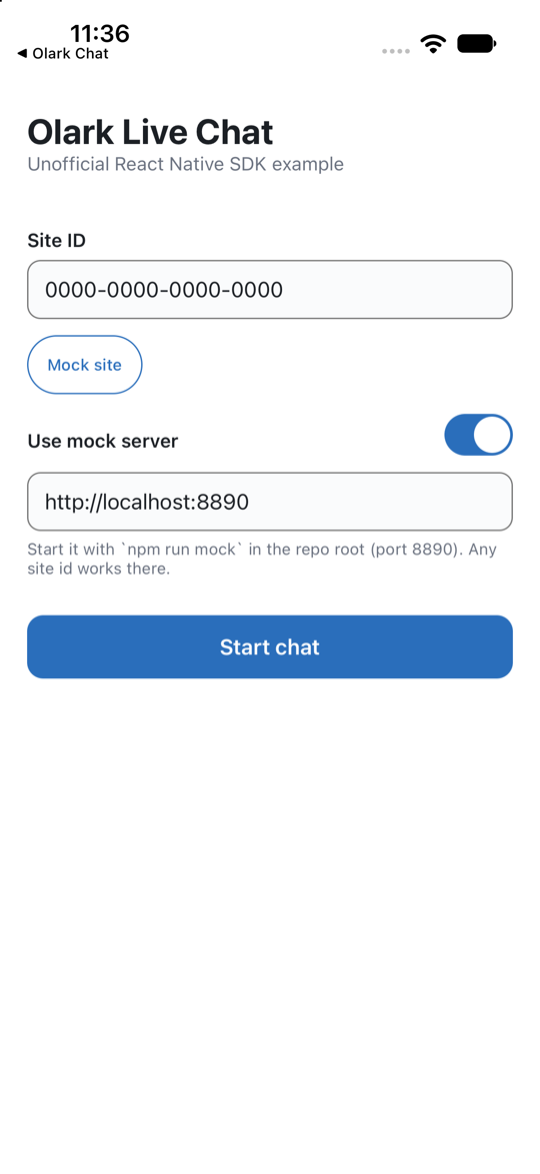
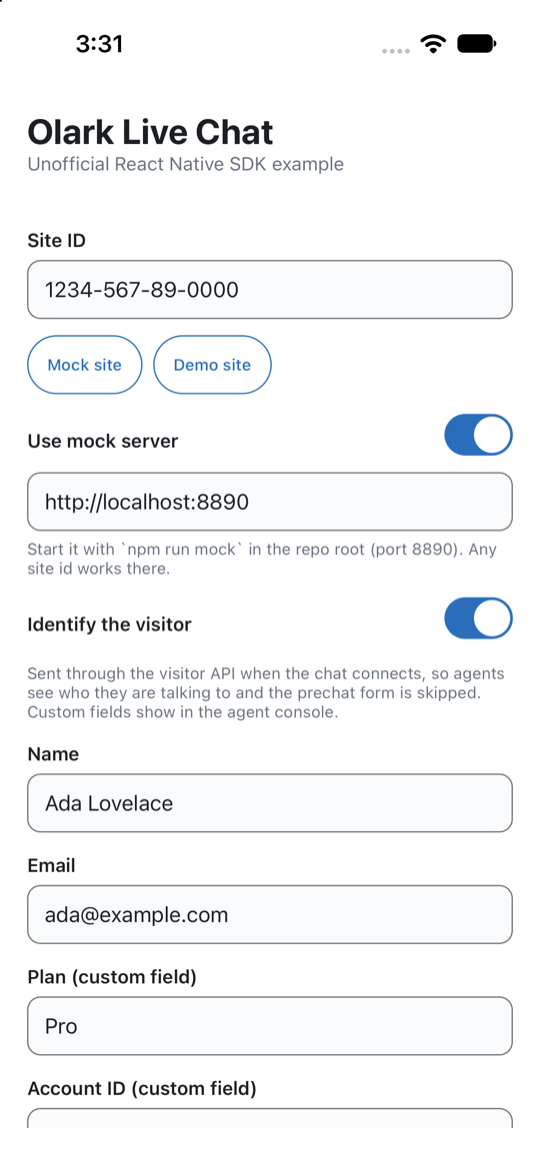
Update screenshots and summary

diff --git a/README.md b/README.md
@@ -10,8 +10,9 @@ here so the repository is not empty in the meantime.
 
 Visitor-side SDKs for [Olark](https://www.olark.com) live chat: a headless TypeScript client, a React Native
 hook with a drop-in `OlarkChatView`, and a native Swift package (`OlarkLiveChat` + SwiftUI `OlarkLiveChatUI`).
-Messages to and from agents, typing indicators, agent presence, prechat and offline forms, visitor details,
-background refresh with local notifications, and accessibility that follows the web chatbox's model.
+Messages to and from agents, typing indicators, agent presence, prechat forms that follow the site's survey (full
+screen or inline), visitors your app already knows (name, email and custom fields passed in, no prechat), offline
+messages, background refresh with local notifications, and accessibility that follows the web chatbox's model.
 
 | Package | What | Status |
 |---|---|---|
@@ -21,18 +22,19 @@ background refresh with local notifications, and accessibility that follows the 
 | `olark-ai` / Swift `OlarkAI` | Olark AI SDK | placeholder |
 
 <p align="center">
-  <img src="docs/screenshots/rn-settings.png" width="200" alt="Expo example: settings screen with the site id field and the mock-server toggle" />
-  <img src="docs/screenshots/rn-prechat.png" width="200" alt="Expo example: chat connected to the mock site, prechat form asking for name and email" />
-  <img src="docs/screenshots/rn-conversation.png" width="200" alt="Expo example: an operator message from Avery with the typing indicator and the prechat form" />
+  <img src="docs/screenshots/rn-settings.png" width="200" alt="Expo example: settings screen with the demo site selected and the visitor identified by name, email and custom fields" />
+  <img src="docs/screenshots/rn-prechat.png" width="200" alt="Expo example: full-screen prechat survey asking for name, email, phone and the question" />
+  <img src="docs/screenshots/rn-conversation.png" width="200" alt="Expo example: a conversation with a known visitor, Ada Lovelace, and the operator Avery typing" />
 </p>
 
 <p align="center">
-  <img src="docs/screenshots/swift-settings.png" width="200" alt="Swift example: settings screen with the site id field and the mock-server toggle" />
-  <img src="docs/screenshots/swift-prechat.png" width="200" alt="Swift example: chat connected to the mock site, prechat form asking for name and email" />
-  <img src="docs/screenshots/swift-conversation.png" width="200" alt="Swift example: an operator message from Avery with the typing indicator" />
+  <img src="docs/screenshots/swift-settings.png" width="200" alt="Swift example: settings screen with the demo site selected and the visitor identified by name, email and custom fields" />
+  <img src="docs/screenshots/swift-prechat.png" width="200" alt="Swift example: full-screen prechat survey asking for name, email, phone and the question" />
+  <img src="docs/screenshots/swift-conversation.png" width="200" alt="Swift example: a conversation with a known visitor, Ada Lovelace, and the operator Avery typing" />
 </p>
 
-*Top: the React Native (Expo) example; bottom: the SwiftUI example. Both against the bundled mock server.*
+*Top: the React Native (Expo) example; bottom: the SwiftUI example. Both against the bundled mock server's demo site:
+settings with an identified visitor, the full-screen prechat survey an anonymous visitor sees, and a conversation.*
 
 ## Disclaimer
 
